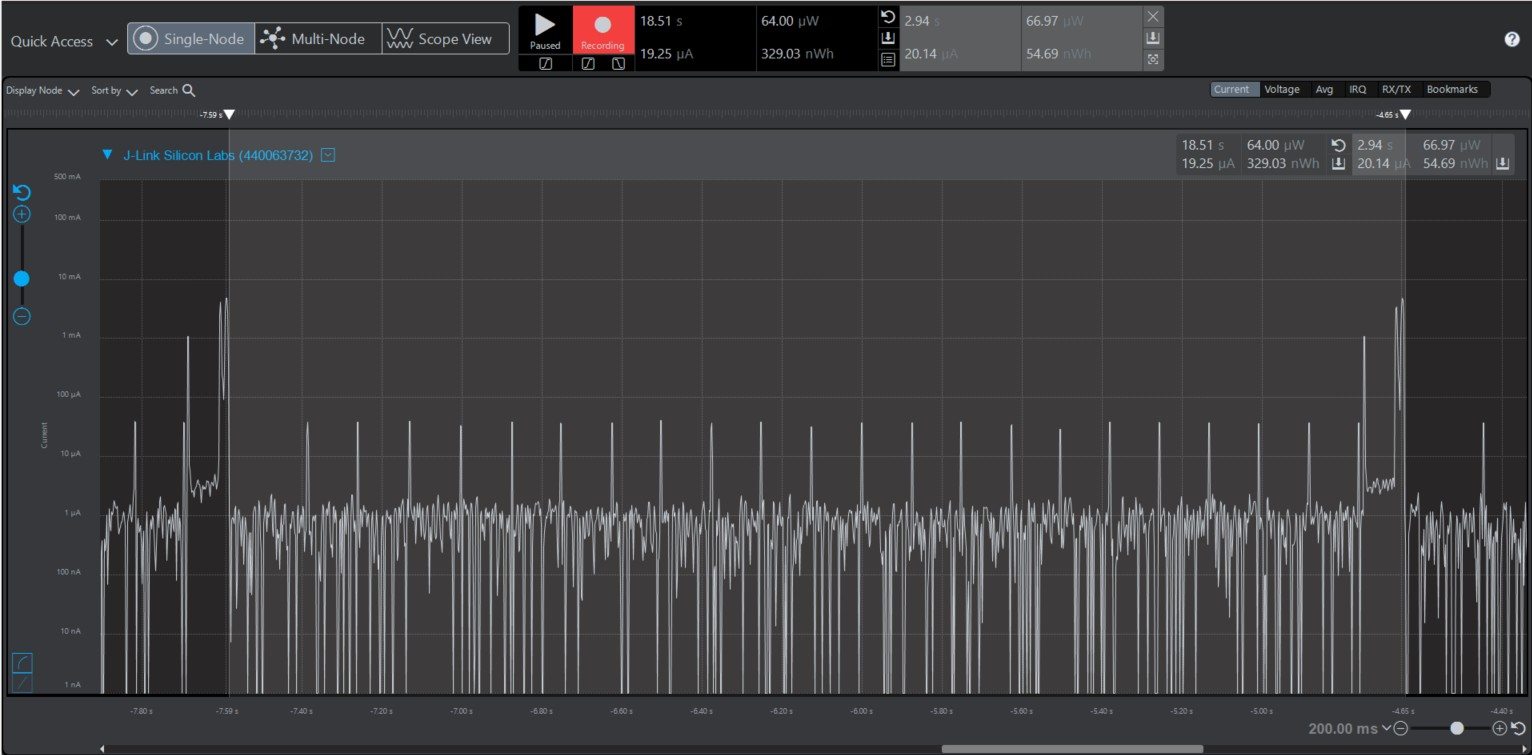
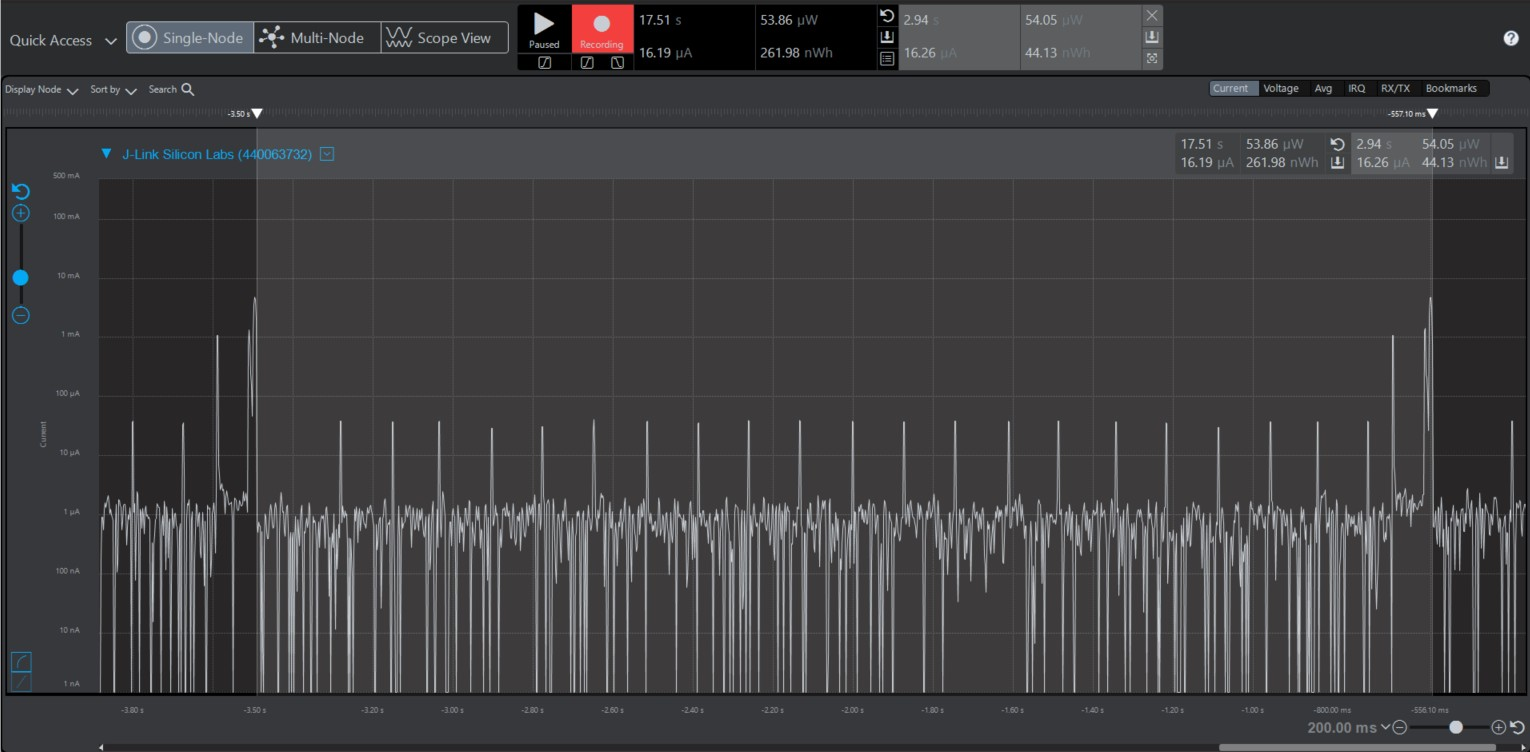
Fix the sequencing

diff --git a/src/scheduler.c b/src/scheduler.c
@@ -91,7 +91,6 @@ void temperature_state_machine(uint32_t event) {
       next_state = STATE_SI7021_ON;
       if(event == evtLETIMER0_COMP1){
           sl_power_manager_add_em_requirement(SL_POWER_MANAGER_EM1);
-          initI2C();
           send_I2C_command();
           next_state = STATE_I2C_SEND;
       }
@@ -115,8 +114,8 @@ void temperature_state_machine(uint32_t event) {
     case STATE_I2C_READ_COMPLETE:
       next_state = STATE_I2C_READ_COMPLETE;
       if(event == evtI2C0_done) {
-          sl_power_manager_remove_em_requirement(SL_POWER_MANAGER_EM1);
           si7021_power_off();
+          sl_power_manager_remove_em_requirement(SL_POWER_MANAGER_EM1);
           uint32_t temp = get_temp_value();
           LOG_INFO ("Temperature=%lu\r\n", temp);
           next_state = STATE_IDLE;

diff --git a/app.c b/app.c
@@ -171,6 +171,8 @@ SL_WEAK void app_init(void)
 
   initLETIMER0();
 
+  initI2C();
+
 #if (LOWEST_ENERGY_MODE==EM1)
   sl_power_manager_add_em_requirement(SL_POWER_MANAGER_EM1);
 #elif (LOWEST_ENERGY_MODE==EM2)

diff --git a/questions/Assignment4-I2CLoadPowerManagementPart2.md b/questions/Assignment4-I2CLoadPowerManagementPart2.md
@@ -6,31 +6,31 @@ See [Mastering Markdown](https://guides.github.com/features/mastering-markdown/)
 *Please include screenshots of the profiler window detailing each current measurement captured.  See the file Instructions to add screenshots in assignment.docx in the ECEN 5823 Student Public Folder.* 
 
 1. What is the average current per period? (Remember, once you have measured your average current, average current is average current over all time. Average current doesn’t carry with it the units of the timespan over which it was measured).
-   Answer: 20.14 uA
+   Answer: 16.26 uA
    <br>Screenshot:  
    ![Avg_current_per_period](Images/assignment4_Q1.jpg)  
 
 2. What is the ave current from the time we sleep the MCU to EM3 until we power-on the 7021 in response to the LETIMER0 UF IRQ?
    Answer: 
-   <br>Screenshot: 1.81 uA 
+   <br>Screenshot: 1.79 uA 
    ![Avg_current_LPM_Off](Images/assignment4_Q2.jpg)  
 
 3. What is the ave current from the time we power-on the 7021 until we get the COMP1 IRQ indicating that the 7021's maximum time for conversion (measurement) has expired.
-   Answer: 240.43 uA
+   Answer: 121.54 uA
    <br>Screenshot:  
    ![Avg_current_LPM_Off](Images/assignment4_Q3.jpg)  
 
 4. How long is the Si7021 Powered On for 1 temperature reading?
-   Answer: 100.00 ms
+   Answer: 98.30 ms
    <br>Screenshot:  
    ![duration_lpm_on](Images/assignment4_Q4.jpg)  
 
 5. Given the average current per period from Q1, calculate the operating time of the system for a 1000mAh battery? - ignoring battery manufacturers, efficiencies and battery derating - just a first-order calculation.
-   Answer (in hours): 49652.43 hours
+   Answer (in hours): 61500.61 hours
    
 6. How has the power consumption performance of your design changed since the previous assignment?
    Answer: By implementing sleep mode (EM1) between I2C transfers and replacing the polling-based timer wait function with an interrupt-based approach, the system's power consumption has significantly decreased. 
-   Previously, the average current per period was 159.05 µA, which has now been reduced to 20.14 µA. As a result, the estimated operating time of the system on a 1000mAh battery has increased from 6287.33 hours to 49652.43 hours - an improvement of nearly 8 times. 
+   Previously, the average current per period was 159.05 µA, which has now been reduced to 16.26 µA. As a result, the estimated operating time of the system on a 1000mAh battery has increased from 6287.33 hours to 61500.61 hours - an improvement of nearly 10 times. 
    
 
 
